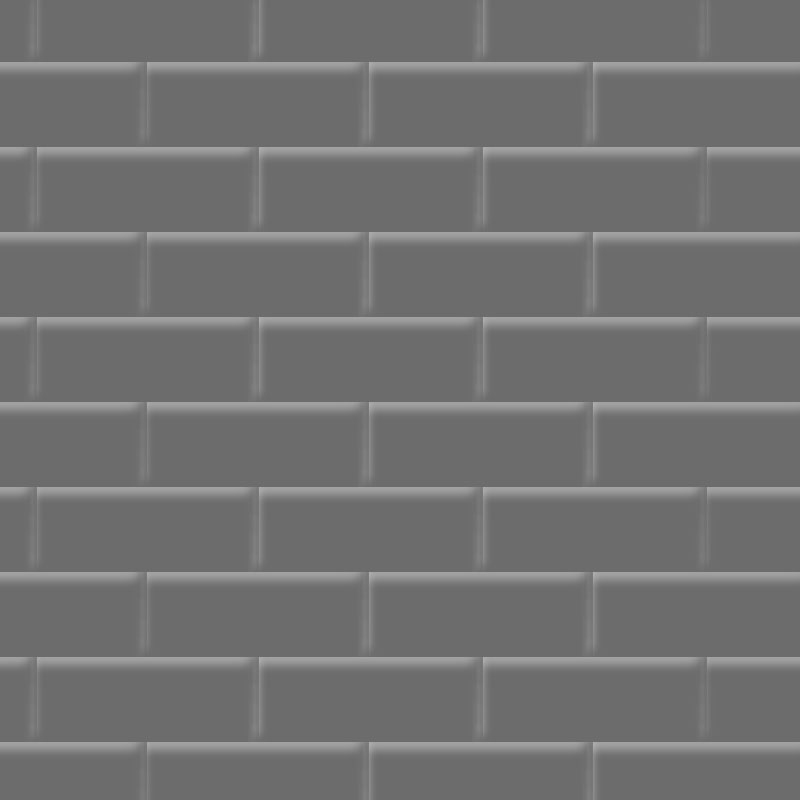
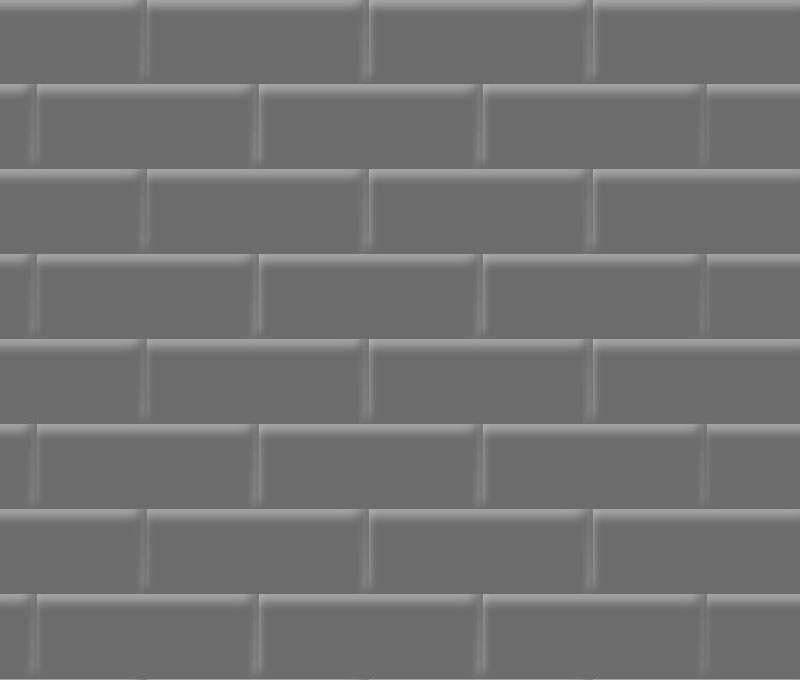
Update on background

diff --git a/gamewindow.cpp b/gamewindow.cpp
@@ -3,18 +3,22 @@
 void Game::animate()
 {
 	background->move();
+	background2->move();
 }
 
 Game::Game(QTimer *time)
 {
-	
+	setHorizontalScrollBarPolicy(Qt::ScrollBarAlwaysOff);
+	setVerticalScrollBarPolicy(Qt::ScrollBarAlwaysOff);
 	gScene = new QGraphicsScene();
 	setScene(gScene);
 	yPix = new QPixmap("img/yoshiw2.jpg");
 	bPix = new QPixmap("img/bg.jpg");
 	background = new Bg(bPix, 0, 0);
+	background2 = new Bg(bPix, 0, -680);
 	yoshi = new Yoshi(yPix, 300, 300);
 	gScene->addItem(background);
+	gScene->addItem(background2);
 	timer = time;
 	timer->setInterval(5);
 	connect(timer, SIGNAL(timeout()), this, SLOT(animate()));

diff --git a/bg.cpp b/bg.cpp
@@ -3,6 +3,7 @@
 Bg::Bg(QPixmap *pm, int lx, int ly) : Thing(pm, lx, ly)
 {
 	back = new QPixmap("img/bg.jpg");
+	cnt = 0;
 }
 
 Bg::~Bg()
@@ -12,11 +13,13 @@ Bg::~Bg()
 
 void Bg::move()
 {
-	if(cnt == 100) {
+	if(cnt == 10000) {
 		vely++;
 		cnt = 0;
 	}
 	locy += vely;
+	if(locy >= 680)
+		locy = -680;
 	update();
 	cnt++;
 }

diff --git a/gamewindow.h b/gamewindow.h
@@ -31,6 +31,7 @@ class Game : public QGraphicsView
 		QPixmap *bPix;
 		Yoshi *yoshi;
 		Bg *background;
+		Bg *background2;
 	public slots:
 		void animate();
 };
